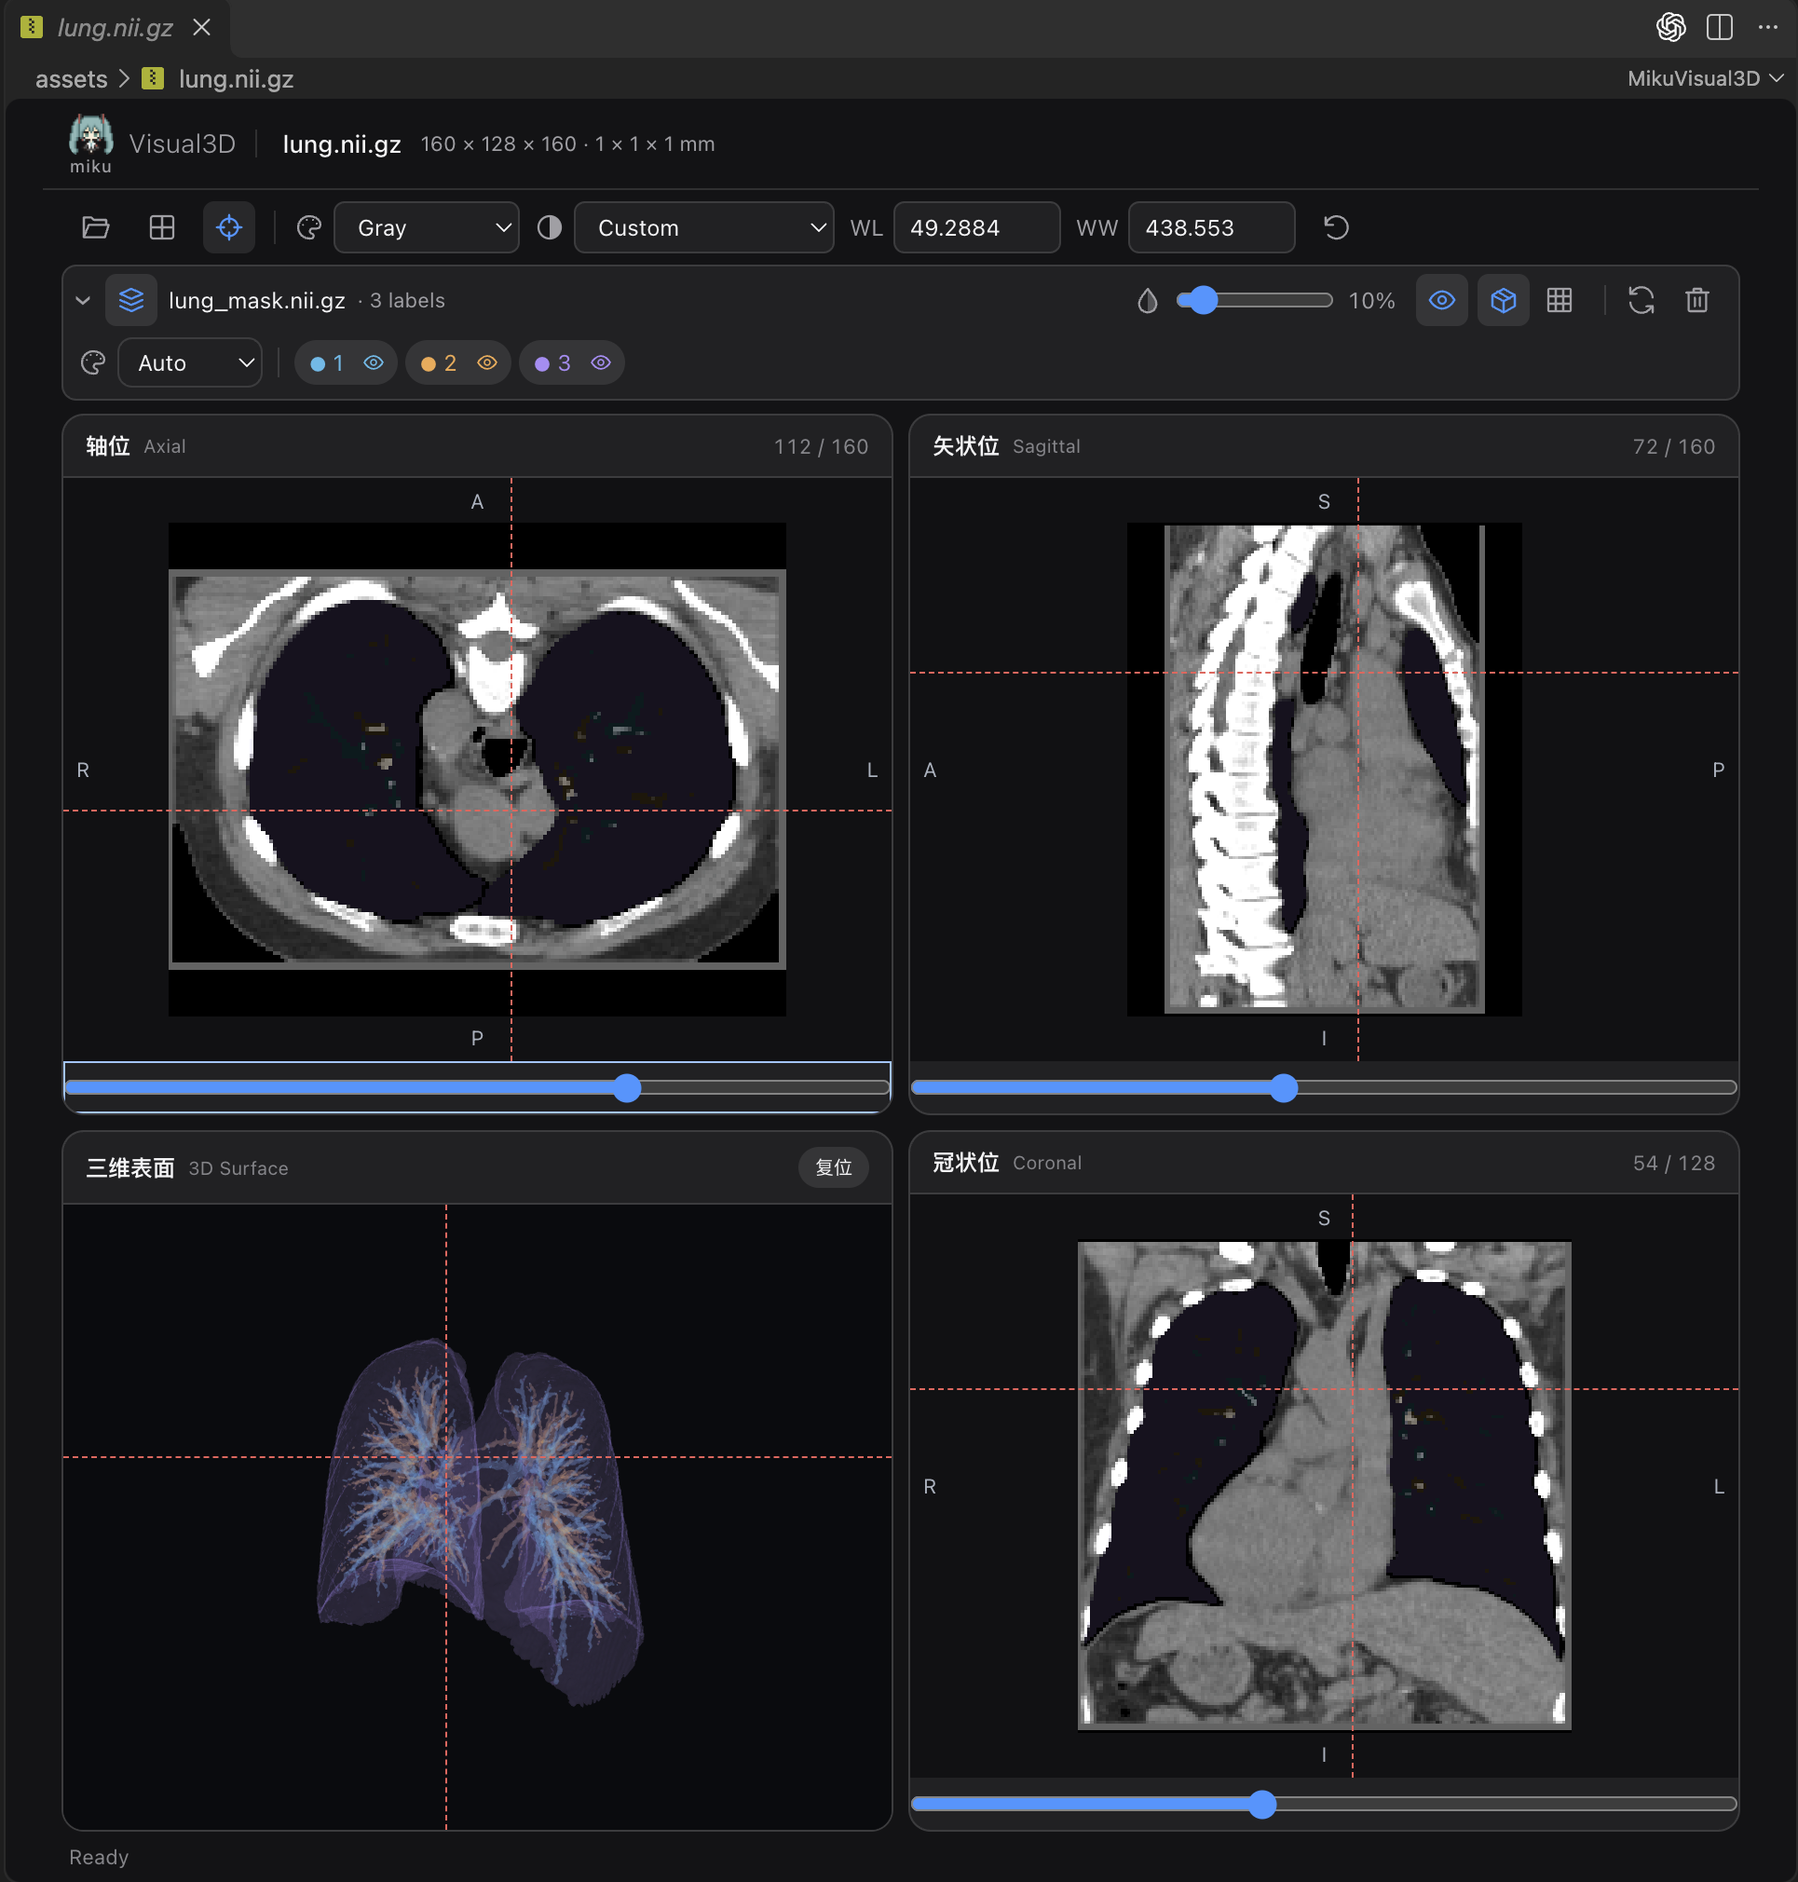
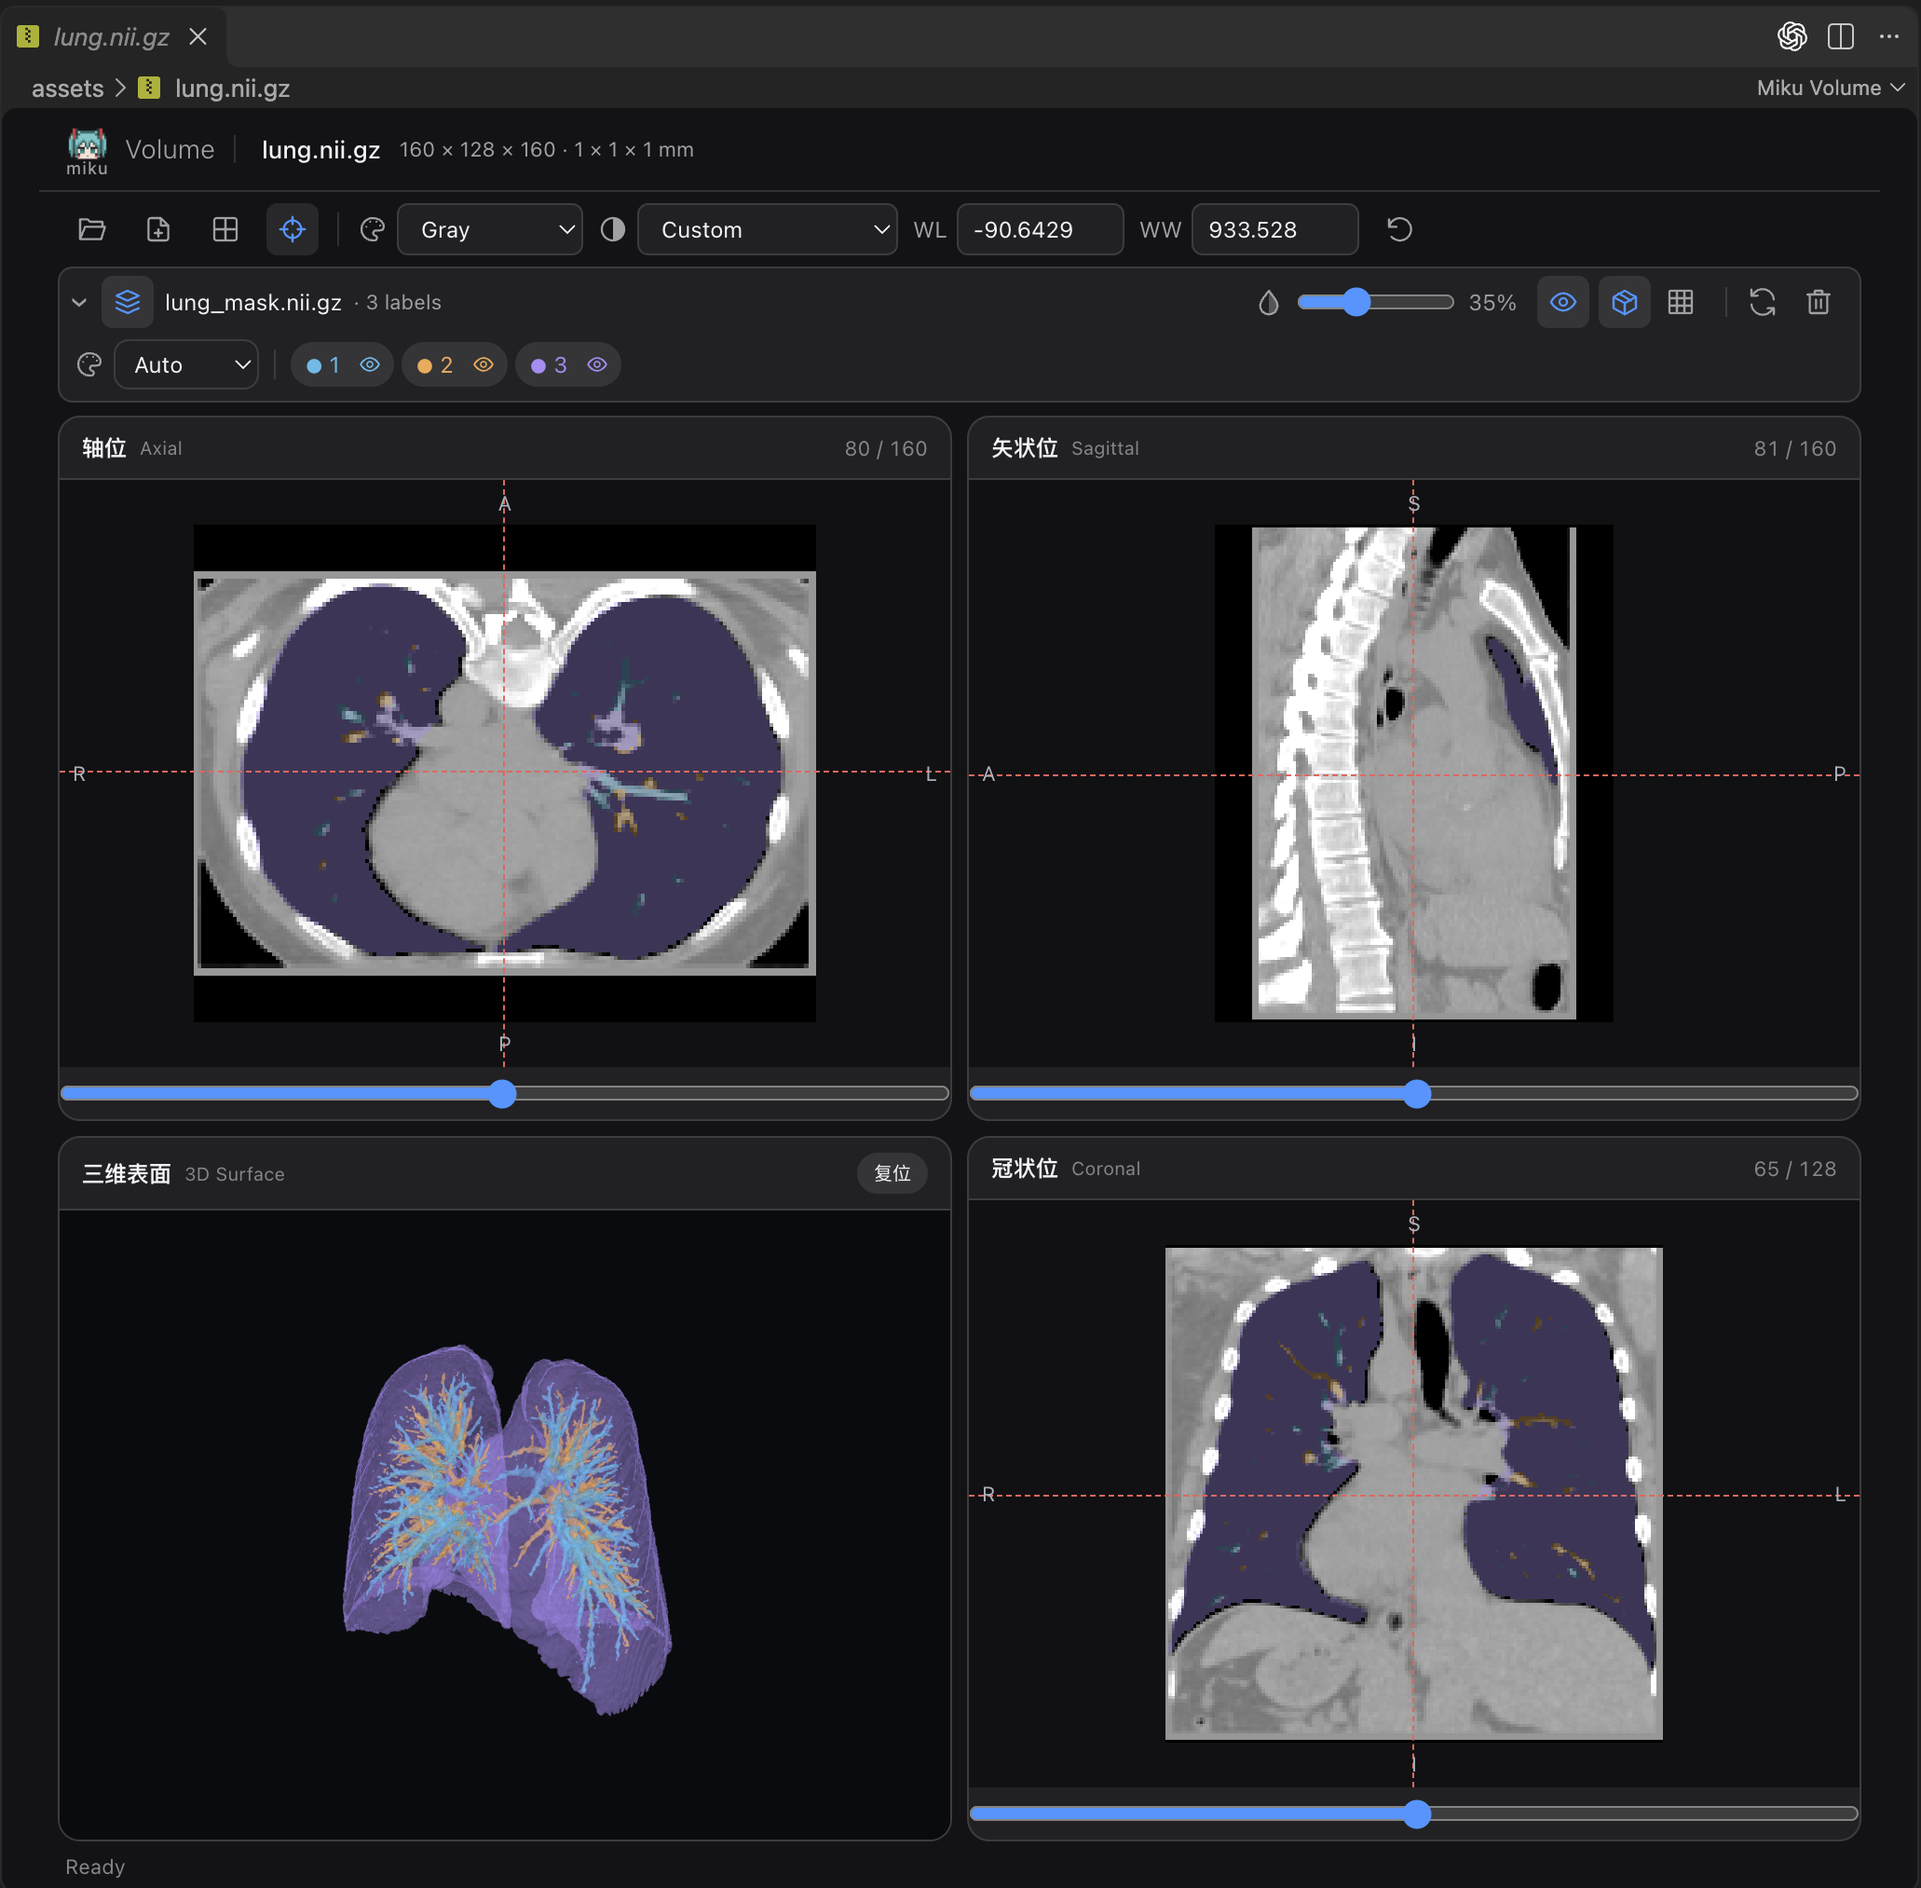
发布 Miku Volume 1.0.0，默认关联 NIfTI 文件

diff --git a/src/extension.ts b/src/extension.ts
@@ -7,7 +7,7 @@ import {
   type Source,
 } from "./backend/session";
 
-const VIEW = "mikuVisual.image";
+const VIEW = "mikuVolume.image";
 const sessions = new Map<string, ViewerSession>();
 const viewerPanels = new Map<string, vscode.WebviewPanel>();
 let lastActiveViewer: string | undefined;
@@ -22,21 +22,21 @@ export function activate(context: vscode.ExtensionContext) {
   const updateAddImageContext = () =>
     vscode.commands.executeCommand(
       "setContext",
-      "mikuVisual.hasOpenImage",
+      "mikuVolume.hasOpenImage",
       [...sessions.values()].some((session) => session.diagnostics.loaded),
     );
   void updateAddImageContext();
-  const output = vscode.window.createOutputChannel("Miku Visual3D");
+  const output = vscode.window.createOutputChannel("Miku Volume");
   context.subscriptions.push(output);
   const log = (message: string) =>
     output.appendLine(`[${new Date().toISOString()}] ${message}`);
   log(`Activated on ${vscode.env.remoteName || "local"} workspace host`);
   context.subscriptions.push(
-    vscode.commands.registerCommand("mikuVisual.logs", () => output.show()),
+    vscode.commands.registerCommand("mikuVolume.logs", () => output.show()),
   );
   context.subscriptions.push(
     vscode.commands.registerCommand(
-      "mikuVisual.open",
+      "mikuVolume.open",
       async (uri?: vscode.Uri) => {
         try {
           if (!uri)
@@ -52,7 +52,7 @@ export function activate(context: vscode.ExtensionContext) {
         } catch (error) {
           log(String(error));
           void vscode.window.showErrorMessage(
-            `Miku Visual3D: ${String(error)}`,
+            `Miku Volume: ${String(error)}`,
           );
         }
       },
@@ -60,7 +60,7 @@ export function activate(context: vscode.ExtensionContext) {
   );
   context.subscriptions.push(
     vscode.commands.registerCommand(
-      "mikuVisual.addOverlay",
+      "mikuVolume.addOverlay",
       async (uris?: vscode.Uri | vscode.Uri[], selectedUris?: vscode.Uri[]) => {
         const input = vscode.window.tabGroups.activeTabGroup.activeTab?.input;
         const activeKey =
@@ -80,7 +80,7 @@ export function activate(context: vscode.ExtensionContext) {
         const panel = key ? viewerPanels.get(key) : undefined;
         if (!key || !session || !panel) {
           void vscode.window.showInformationMessage(
-            "Please open an image with MikuVisual3D first.",
+            "Please open an image with Miku Volume first.",
           );
           return;
         }
@@ -173,14 +173,14 @@ export function activate(context: vscode.ExtensionContext) {
           if (panel.active) lastActiveViewer = key;
           const receive = panel.webview.onDidReceiveMessage((message) => {
             if (message?.type === "openImage") {
-              void vscode.commands.executeCommand("mikuVisual.open");
+              void vscode.commands.executeCommand("mikuVolume.open");
             } else void session.receive(message);
           });
           const timer = setTimeout(() => {
             if (!session.diagnostics.ready) {
               log("Webview did not start within 15 seconds");
               void vscode.window.showErrorMessage(
-                "Miku Visual3D could not start. Run MikuVisual: Show Logs for details.",
+                "Miku Volume could not start. Run Miku Volume: Show Logs for details.",
               );
             }
           }, 15000);
@@ -202,8 +202,8 @@ export function activate(context: vscode.ExtensionContext) {
           // separately bundled files, never serialized functions in inline scripts.
           panel.webview.html = `<!doctype html><html lang="zh-CN"><head><meta charset="utf-8"><meta name="viewport" content="width=device-width,initial-scale=1">
 <meta http-equiv="Content-Security-Policy" content="default-src 'none'; img-src ${panel.webview.cspSource}; style-src ${panel.webview.cspSource}; script-src 'nonce-${nonce}';">
-<link rel="stylesheet" href="${style}"><title>Miku Visual</title></head><body>
-<div id="app"><header><span class="brand" aria-label="miku Visual"><span class="brand-logo"><img class="brand-mark" src="${brand}" width="24" alt=""><small>miku</small></span><span class="brand-wordmark">Visual 3D</span></span><h1 id="title">Opening image…</h1><select id="mainImage" aria-label="主影像" hidden></select><p id="details"></p></header>
+<link rel="stylesheet" href="${style}"><title>Miku Volume</title></head><body>
+<div id="app"><header><span class="brand" aria-label="Miku Volume"><span class="brand-logo"><img class="brand-mark" src="${brand}" width="24" alt=""><small>miku</small></span><span class="brand-wordmark">Volume</span></span><h1 id="title">Opening image…</h1><select id="mainImage" aria-label="主影像" hidden></select><p id="details"></p></header>
 <div id="toolbar" role="toolbar" aria-label="影像显示工具">
 <button class="icon-button" id="loadImage" title="打开影像 / 分割文件" aria-label="打开影像 / 分割文件">${icon("folder-open")}</button>
 <button class="icon-button" id="addImage" title="附加影像 / 分割文件" aria-label="附加影像 / 分割文件" disabled>${icon("file-plus")}</button>
@@ -246,7 +246,7 @@ export async function deactivate() {
   lastActiveViewer = undefined;
   await vscode.commands.executeCommand(
     "setContext",
-    "mikuVisual.hasOpenImage",
+    "mikuVolume.hasOpenImage",
     false,
   );
 }

diff --git a/test/integration.ts b/test/integration.ts
@@ -60,7 +60,7 @@ async function synthetic(path: string, mask = false, shift = 0) {
           352 + (x + dim * (y + dim * z)) * 2,
         );
       }
-  await writeFile(path, gzipSync(bytes));
+  await writeFile(path, path.endsWith(".gz") ? gzipSync(bytes) : bytes);
 }
 async function waitForSurfaces(
   api: ExtensionApi,
@@ -84,17 +84,19 @@ export async function run() {
   const root = process.env.MIKU_VISUAL_TEST_ROOT!,
     scratch = process.env.MIKU_VISUAL_TEST_SCRATCH!;
   const extension = vscode.extensions.getExtension<ExtensionApi>(
-    "eejyang.miku-visual-3d",
+    "eejyang.miku-volume",
   );
   assert(extension, "Independent extension was not discovered");
   const api = await extension.activate();
   const sample = join(scratch, "synthetic.nii.gz");
   await synthetic(sample);
+  const sampleNii = join(scratch, "synthetic.nii");
+  await synthetic(sampleNii);
   const sampleMask = join(scratch, "synthetic-mask.nii.gz");
   await synthetic(sampleMask, true);
   const samplePrediction = join(scratch, "synthetic-prediction.nii.gz");
   await synthetic(samplePrediction, true, 2);
-  const files = [sample];
+  const files = [sample, sampleNii];
   const masks = new Map([[sample, [sampleMask, samplePrediction]]]);
   try {
     await access(join(root, "mri.nii.gz"));
@@ -116,15 +118,16 @@ export async function run() {
   const results = [];
   for (const path of files) {
     const uri = vscode.Uri.file(path);
-    await vscode.commands.executeCommand(
-      "vscode.openWith",
-      uri,
-      "mikuVisual.image",
-    );
+    // Ordinary file opening must resolve to our default editor for both formats.
+    await vscode.commands.executeCommand("vscode.open", uri);
     let state = await waitForPaint(api, uri);
+    const input = vscode.window.tabGroups.activeTabGroup.activeTab?.input;
+    assert(input instanceof vscode.TabInputCustom);
+    assert.equal(input.viewType, "mikuVolume.image");
+    assert.equal(input.uri.toString(), uri.toString());
     if (masks.has(path)) {
       await vscode.commands.executeCommand(
-        "mikuVisual.addOverlay",
+        "mikuVolume.addOverlay",
         masks.get(path)!.map((mask) => vscode.Uri.file(mask)),
       );
       const deadline = Date.now() + 60000;
@@ -175,13 +178,13 @@ export async function run() {
   }
   for (const path of standaloneMasks) {
     const uri = vscode.Uri.file(path);
-    await vscode.commands.executeCommand("mikuVisual.open", uri);
+    await vscode.commands.executeCommand("mikuVolume.open", uri);
     await waitForPaint(api, uri);
     let state = await waitForSurfaces(api, uri, 1);
     assert.equal(state.sourceKind, "mask");
     if (path === sampleMask) {
       await vscode.commands.executeCommand(
-        "mikuVisual.addOverlay",
+        "mikuVolume.addOverlay",
         vscode.Uri.file(samplePrediction),
       );
       state = await waitForSurfaces(api, uri, 2);

diff --git a/README.md b/README.md
@@ -1,8 +1,8 @@
-# Miku Visual 3D
+# Miku Volume
 
 在 VS Code 中查看 NIfTI 医学影像与分割 Mask，支持三切面联动和三维表面显示。
 
-![Miku Visual3D 肺部 CT 与 Mask 四窗查看界面](docs/images/screenshot.png)
+![Miku Volume 肺部 CT 与 Mask 四窗查看界面](docs/images/screenshot.png)
 
 *肺部 CT 与 Mask 实际界面：轴位、矢状位、冠状位联动，结合标签叠加与三维表面查看结构。*
 
@@ -16,9 +16,9 @@
 
 ## 使用
 
-1. 在扩展面板选择 **Install from VSIX…**，安装 `builds/miku-visual-3d-1.0.0.vsix`，然后重载窗口。
-2. 右键 `.nii` / `.nii.gz` → **Open With… → Miku Visual3D**，或运行 **MikuVisual: Open Image**。
-3. 工具栏文件夹图标在独立窗口打开影像，旁边的加号文件图标向当前窗口附加影像或 Mask；也可右键文件选择 **MikuVisual: Add Image**。
+1. 从 [Releases](https://github.com/eejyang/miku-volume/releases) 下载 `miku-volume-1.0.0.vsix`，在扩展面板选择 **Install from VSIX…** 安装，然后重载窗口。
+2. 双击 `.nii` / `.nii.gz` 即可打开，或运行 **Miku Volume: Open Image**。若已配置其他默认编辑器，可在 **Open With… → Configure default editor…** 中选择 **Miku Volume**。
+3. 工具栏文件夹图标在独立窗口打开影像，旁边的加号文件图标向当前窗口附加影像或 Mask；也可右键文件选择 **Miku Volume: Add Image**。
 
 加载时自动识别：数值种类少于 256 的文件视为 Mask，达到 256 种视为影像，背景值也计入统计。
 
@@ -31,6 +31,6 @@
 | 三维视角 | 左键旋转、右键平移、滚轮缩放；“复位”恢复相机 |
 
 
-作者：[eejyang](https://github.com/eejyang) · [GitHub](https://github.com/eejyang/miku-visual3d) · [问题反馈](https://github.com/eejyang/miku-visual3d/issues)
+作者：[eejyang](https://github.com/eejyang) · [GitHub](https://github.com/eejyang/miku-volume) · [问题反馈](https://github.com/eejyang/miku-volume/issues)
 
 原创代码许可：[BSD-2-Clause](LICENSE)；第三方组件及色表许可见 [THIRD_PARTY_NOTICES](THIRD_PARTY_NOTICES)。
